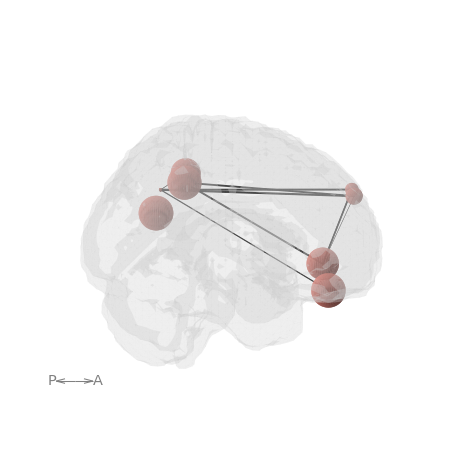
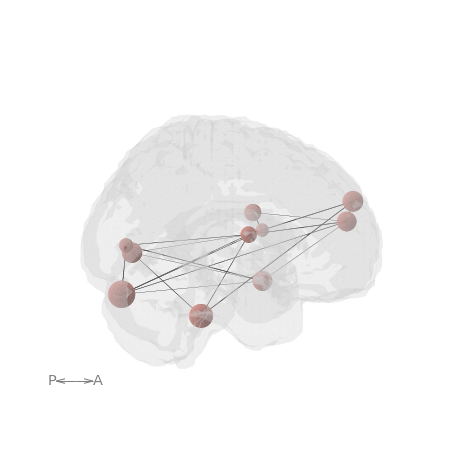
fixing numpy array as edge input. renaming to netplotbrain

Changed region(s): [[0.2178, 0.3422, 0.8089, 0.7467], [0.4356, 0.4667, 0.4667, 0.4978]]

diff --git a/examples/example1.py b/examples/example1.py
@@ -1,67 +1,64 @@
 import numpy as np
-import netonbrain as nob
+import netplotbrain
 import pandas as pd
 import matplotlib.pyplot as plt
 
 
 np.random.seed(2021)
 
-# 8 psudeorandom xyz coordinates
-nodex = np.array([42, -42, -40, 40, 12, -12, -18, 18])
-nodey = np.array([-60, -60, 40, 40, 56, 56, -44, -44])
-nodez = np.array([30, 30, -16, -16, 35, 35, 44, 44])
-# Some psuedo_strength measure to demonstrate size
-strength = np.array([0.3, 0.3, 1, 0.15, 0.2, 0.8, 0.4, 0.3])
-betweenness = np.array([1, 0.1, 1, 1, 0.5, 0.4, 0.9, 1])
-nodesdf = pd.DataFrame(data={'x': nodex, 'y': nodey,
-                           'z': nodez, 'strength': strength,
-                           'betweenness': betweenness})
+n = 10  # number of nodes
+m = 20  # number of edges
 
-n = 8  # number of nodes
-m = 12  # number of edges
-# Random edges connecting the 8 nodes
+# CREATE THE NODES
+# 8 psudeorandom xyz coordinates
+X = np.random.uniform(-50, 50, n)
+y = np.random.uniform(-90, 60, n)
+z = np.random.uniform(-40, 50, n)
+# Some random centrality measures to demonstrate size
+centrality_measure1 = np.random.binomial(10, 0.3, n) / 10
+centrality_measure2 = np.random.binomial(10, 0.6, n) / 10
+nodesdf = pd.DataFrame(data={'x': X, 'y': y,
+                           'z': z, 'centrality_measure1': centrality_measure1,
+                           'centrality_measure2': centrality_measure2})
+
+## CREATE THE EDGES.
+# Randomly selet edges 
 ind = np.triu_indices(n, k=1)
 eon = np.random.permutation(len(ind[0]))
 edges = np.zeros([n, n])
-edges[ind[0][eon[:m]], ind[1][eon[:m]]] = 1
+# Generate some random wieghts between 0 and 1
+weights = np.random.binomial(10, 0.25, m) / 10
+edges[ind[0][eon[:m]], ind[1][eon[:m]]] = weights
+# Make symetrical
 edges += edges.transpose()
 
-# Generate weighted edges connecting the nodes
-edgesdf = pd.DataFrame()
-edges_list = list(zip(*np.where(edges != 0)))
-edgesdf["i"], edgesdf["j"] = [i[0]
-                              for i in edges_list], [i[1] for i in edges_list]
-weights = ['0.608', '0.475', '0.456', '0.578', '0.415', '0.953', '0.204', '0.124', '0.608', '0.394', '0.222',
-           '0.178', '0.815', '0.993', '0.199', '0.104', '0.789', '0.233', '0.763', '0.248', '0.195', '0.899', '0.904', '0.424']
-edgesdf['weight'] = weights
-edges = edgesdf
 
 # Plot single view
-nob.plot(template='MNI152NLin2009cAsym',
+netplotbrain.plot(template='MNI152NLin2009cAsym',
          templatestyle='surface',
          view='R',
          nodes=nodesdf,
-         nodesize='strength',
+         nodesize='centrality_measure1',
          edges=edges)
 plt.savefig('./examples/figures/singleview.png', dpi=150)
 
 
 # Plot single view with different size
-nob.plot(template='MNI152NLin2009cAsym',
+netplotbrain.plot(template='MNI152NLin2009cAsym',
          templatestyle='surface',
          view='R',
          nodes=nodesdf,
-         nodesize='betweenness',
+         nodesize='centrality_measure2',
          edges=edges)
 plt.savefig('./examples/figures/bet1.png', dpi=150)
 
 
 # Plot multiple rows
 
-nob.plot(template='MNI152NLin2009cAsym',
+netplotbrain.plot(template='MNI152NLin2009cAsym',
          templatestyle='surface',
          nodes=nodesdf,
-         nodesize='strength',
+         nodesize='centrality_measure1',
          edges=edges,
          view=['LSR', 'AIP'])
 plt.savefig('./examples/figures/rows1.png', dpi=150)
@@ -69,32 +66,32 @@ plt.savefig('./examples/figures/rows1.png', dpi=150)
 
 # Plot different styles
 
-nob.plot(template='MNI152NLin2009cAsym',
+netplotbrain.plot(template='MNI152NLin2009cAsym',
          templatestyle='filled',
          view='R',
          nodes=nodesdf,
-         nodesize='strength',
+         nodesize='centrality_measure1',
          edges=edges)
 plt.savefig('./examples/figures/styles1.png', dpi=150)
 
-nob.plot(template='MNI152NLin2009cAsym', templatestyle='cloudy',
+netplotbrain.plot(template='MNI152NLin2009cAsym', templatestyle='cloudy',
          view='R',
-         nodes=nodesdf, nodesize='strength',
+         nodes=nodesdf, nodesize='centrality_measure1',
          edges=edges)
 plt.savefig('./examples/figures/styles2.png', dpi=150)
 
 # Plot sequence
-nob.plot(template='MNI152NLin2009cAsym',
+netplotbrain.plot(template='MNI152NLin2009cAsym',
          templatestyle='surface',
          view='RP',
-         nodes=nodesdf, nodesize='strength',
+         nodes=nodesdf, nodesize='centrality_measure1',
          edges=edges, frames=3)
 plt.savefig('./examples/figures/seq1.png')
 
-nob.plot(template='MNI152NLin2009cAsym',
+netplotbrain.plot(template='MNI152NLin2009cAsym',
          templatestyle='cloudy',
          view='RP',
-         nodes=nodesdf, nodesize='strength',
+         nodes=nodesdf, nodesize='centrality_measure1',
          edges=edges, frames=3)
 plt.savefig('./examples/figures/seq2.png')
 
@@ -105,16 +102,16 @@ plt.savefig('./examples/figures/seq2.png')
 # nodex = np.array([-4, -3, 2, 0, 4, -1, 3, 5])
 # nodey = np.array([-8, -4, 5, 1, 5, -6, -1, 3])
 # nodez = np.array([1, 2, -1, 2, 2, 4, 1, 0])
-# Some psuedo_strength measure to demonstrate size
-# strength = np.array([0.3, 0.3, 1, 0.15, 0.2, 0.8, 0.4, 0.3])
+# Some psuedo_centrality_measure1 measure to demonstrate size
+# centrality_measure1 = np.array([0.3, 0.3, 1, 0.15, 0.2, 0.8, 0.4, 0.3])
 # nodes = pd.DataFrame(data={'x': nodex, 'y': nodey,
-#                           'z': nodez, 'strength': strength})
+#                           'z': nodez, 'centrality_measure1': centrality_measure1})
 # 
 # 
-# nob.plot(template='WHS',
+# netplotbrain.plot(template='WHS',
 #          templatestyle='surface',
 #          nodes=nodesdf,
-#          nodesize='strength',
+#          nodesize='centrality_measure1',
 #          edges=edges,
 #          view=['LS'],
 #          frames=2,
@@ -124,7 +121,7 @@ plt.savefig('./examples/figures/seq2.png')
 
 # Plot atlas as nodes
 
-nob.plot(nodeimg={'atlas': 'Schaefer2018',
+netplotbrain.plot(nodeimg={'atlas': 'Schaefer2018',
                   'desc': '400Parcels7Networks',
                   'resolution': 1},
          template='MNI152NLin2009cAsym',
@@ -135,7 +132,7 @@ plt.savefig('./examples/figures/atlas_circles.png', dpi=150)
 
 # Plot atlas as parcels
 
-nob.plot(nodeimg={'atlas': 'Schaefer2018',
+netplotbrain.plot(nodeimg={'atlas': 'Schaefer2018',
                   'desc': '400Parcels7Networks',
                   'resolution': 1},
          template='MNI152NLin2009cAsym',

diff --git a/netplotbrain/plotting/plot_edges.py b/netplotbrain/plotting/plot_edges.py
@@ -1,0 +1,63 @@
+import numpy as np
+import pandas as pd
+
+
+def _npedges2dfedges(edges, edgethreshold=0):
+    """
+    A function which transforms numpy array edges into dataframe to be compatible
+    with all functionality.
+
+    Parameters
+    ---------------------
+    edges : numpy array
+        n x n array of edges
+    edgethreshold : float
+        only find edges over a certain threshold
+    """
+    ind = np.where(edges > edgethreshold)
+    weights = edges[ind]
+    # Create dataframe
+    df = pd.DataFrame(data={'i': ind[0], 'j': ind[1], 'weight': weights})
+    return df
+
+
+def _plot_edges(ax, nodes, edges, edgewidth='auto', edgewidthscale=1, edgecolor='k', edgecol=['i', 'j', 'weight']):
+    """
+    Plots the edges on the plot
+
+    Parameters
+    ----------------------------
+    ax : matplotlib ax
+    nodes : dataframe
+        node dataframe with x, y, z coordinates (at least).
+    edges : array or dataframe
+        numpy array (adj matrix) or edgelist (df.columns = ['i', 'j', 'weight'])
+    edgewidth : 'auto', float, int
+        Width of edges. If auto, uses weights from array or dataframes.
+    edgewidthscale : float, int
+        For display purposes, scale edges by value.
+    edgecolor : matplotlib color
+        Colour of edges
+    edgecol : list (2 or 3 elements). Default: ['i', 'j', 'k']
+        list of length 2 or 3.
+        The first two, reference the node indicies in nodes.
+        The third referencees the weights.
+    Returns
+    ----------------------
+    Nothing
+    """
+    # Check input, if numpy array, make dataframe
+    if type(edges) is np.ndarray:
+        edges = _npedges2dfedges(edges)
+
+    # if dataframe
+    for _, row in edges.iterrows():
+        #if row[edgecol[0]] != 0 and row[edgecol[1]] != 0:
+        if edgewidth != 'auto':
+            ew = edgewidth * edgewidthscale
+        else:
+            ew = row[edgecol[2]] * edgewidthscale
+        xp = nodes.loc[list((row[edgecol[0]], row[edgecol[1]]))]['x']
+        yp = nodes.loc[list((row[edgecol[0]], row[edgecol[1]]))]['y']
+        zp = nodes.loc[list((row[edgecol[0]], row[edgecol[1]]))]['z']
+        ax.plot(xp, yp, zp, color=edgecolor, linewidth=ew)

diff --git a/setup.py b/setup.py
@@ -6,7 +6,7 @@ VERSION = "netonbrain/__version__.py"
 VERSION = open(VERSION, "rt").read()
 VERSION = VERSION.split('"')[1]
 
-setup(name='netonbrain',
+setup(name='netplotbrain',
       version=VERSION,
       python_requires='>3.5',
       setup_requires=['pytest-runner'],
@@ -22,9 +22,9 @@ setup(name='netonbrain',
       packages=find_packages(),
       author='wiheto, silviafan',
       author_email='william.thompson@ki.se',
-      url='https://www.github.com/wiheto/netonbrain',
+      url='https://www.github.com/wiheto/netplotbrain',
 
-      long_description='Netonbrain. \
+      long_description='netplotbrain. \
             Plotting networks on neuroimaging files, \
             nodes and edges can be plotted onto 3D brains. \
             ')
